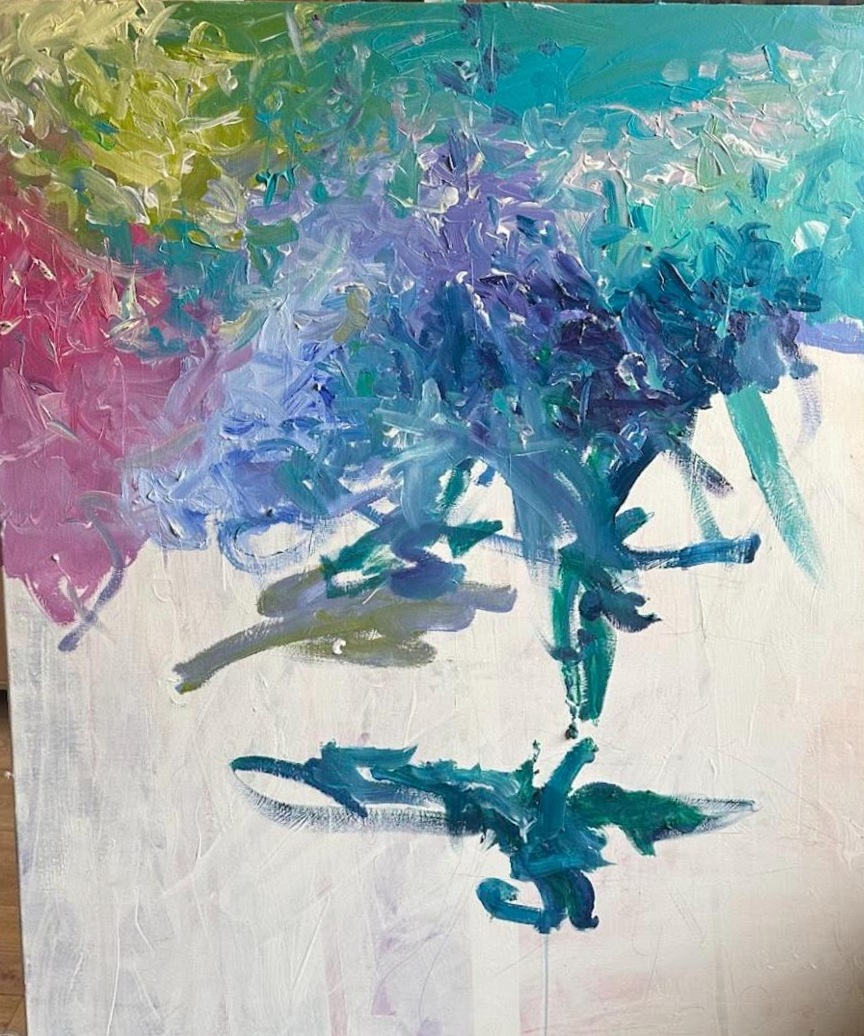
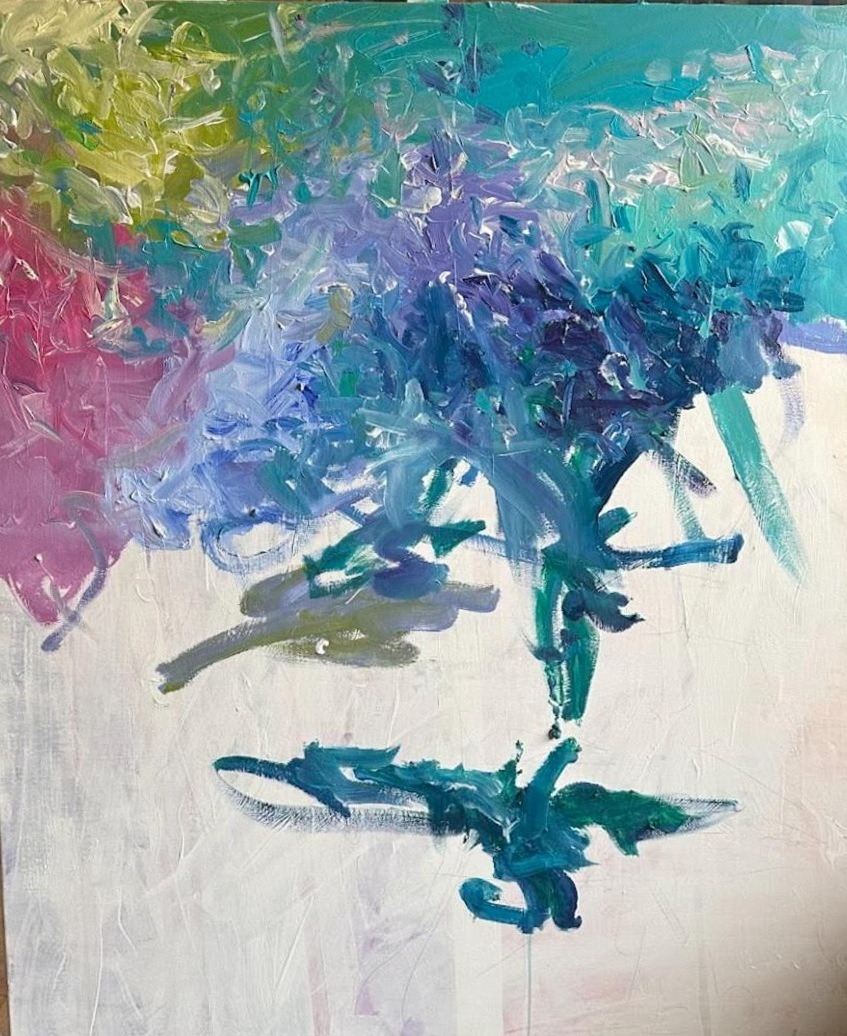
In-page viewer: works open large on the same page (home and archive), shareable via ?work=
Claude-Session: https://claude.ai/code/session_01UYUiVaRvo7TQ6PdKqUTpQC

diff --git a/src/styles/global.css b/src/styles/global.css
@@ -233,6 +233,24 @@ button { font: inherit; color: inherit; background: none; border: 0; padding: 0;
 .work-nav a:last-child { text-align: right; }
 .work-nav .work-nav-all { text-decoration: underline; text-underline-offset: 0.2em; }
 
+/* in-page viewer */
+.viewer { border: 0; padding: 0; margin: 0; width: 100vw; height: 100dvh; max-width: none; max-height: none; background: var(--wall); color: var(--ink); }
+.viewer::backdrop { background: rgb(236 235 231 / 0.96); }
+.viewer[open] { display: grid; grid-template-rows: auto 1fr; animation: fade 0.3s ease both; }
+.viewer-open { overflow: hidden; }
+.viewer-bar { display: flex; justify-content: space-between; align-items: center; padding: 0.8rem var(--gutter); }
+.viewer-count { font-size: 0.84rem; color: var(--soft); font-variant-numeric: tabular-nums; }
+.viewer-body { position: relative; display: grid; grid-template-columns: auto minmax(0, 1fr) auto; align-items: center; gap: 1rem; padding: 0 var(--gutter) 1.5rem; height: calc(100dvh - 4.5rem); min-height: 0; }
+.viewer-figure { display: grid; grid-template-columns: minmax(0, 1fr) minmax(14rem, 19rem); gap: clamp(1.5rem, 4vw, 4rem); align-items: end; height: 100%; min-height: 0; }
+.viewer-img { display: flex; align-items: center; justify-content: center; height: 100%; min-height: 0; min-width: 0; }
+.viewer-img img { max-width: 100%; max-height: 100%; width: auto; height: auto; object-fit: contain; opacity: 0; transition: opacity 0.35s ease; box-shadow: 0 1px 2px rgb(0 0 0 / 0.08), 0 20px 44px -26px rgb(0 0 0 / 0.45); touch-action: pan-y; }
+.viewer-img img.is-loaded { opacity: 1; }
+.viewer-cap { display: grid; gap: 0.4rem; padding-bottom: 0.5rem; }
+.viewer-title { font-family: var(--serif); font-weight: 300; font-size: clamp(1.6rem, 2.4vw, 2.3rem); line-height: 1.05; letter-spacing: -0.02em; }
+.viewer-meta { font-size: 0.88rem; color: var(--soft); }
+.viewer-status { font-size: 0.88rem; color: #2e7d4f; }
+.viewer-link { justify-self: start; margin-top: 0.8rem; font-size: 0.9rem; text-decoration: underline; text-underline-offset: 0.25em; }
+
 /* viewer */
 .lightbox { border: 0; padding: 0; margin: 0; width: 100vw; height: 100dvh; max-width: none; max-height: none; background: var(--wall); color: var(--ink); }
 .lightbox::backdrop { background: var(--wall); }
@@ -307,6 +325,16 @@ button { font: inherit; color: inherit; background: none; border: 0; padding: 0;
   .work-nav .work-nav-all { display: none; }
   .available a { grid-template-columns: 1fr auto; gap: 0.4rem 1rem; }
   .available-meta { grid-column: 1 / -1; grid-row: 2; }
+}
+@media (max-width: 48rem) {
+  .viewer-body { grid-template-columns: 1fr; padding-bottom: 1rem; }
+  .viewer-figure { grid-template-columns: 1fr; grid-template-rows: minmax(0, 1fr) auto; gap: 1rem; }
+  .viewer-body { height: calc(100dvh - 4.5rem); }
+  .viewer-figure { height: 100%; }
+  .viewer-prev, .viewer-next { position: absolute; bottom: 1rem; top: auto; translate: none; z-index: 2; }
+  .viewer-prev { right: calc(var(--gutter) + 3.5rem); left: auto; }
+  .viewer-next { right: var(--gutter); }
+  .viewer-cap { padding-right: 7.5rem; }
 }
 @media (max-width: 22rem) {
   .site-nav ul { gap: 0.7rem; }

diff --git a/src/lib/viewer.ts b/src/lib/viewer.ts
@@ -1,0 +1,27 @@
+import { getImage } from 'astro:assets';
+import type { Work } from './works';
+import { profile } from './curation';
+import { CATEGORIES, AVAILABILITY_LABEL } from '../data/site';
+import { formatPrice } from './url';
+
+/** Data attributes that let a link open the work in the in-page viewer (see Viewer.astro). */
+export async function viewerAttrs(w: Work): Promise<Record<string, string>> {
+  const d = w.data;
+  const full = await getImage({ src: d.cover, width: 2200, format: 'webp' });
+  const p = await profile(w);
+  const cat = CATEGORIES.find((c) => c.id === d.category)!;
+  const status = d.availability === 'available'
+    ? [AVAILABILITY_LABEL.available, d.price && `${formatPrice(d.price.amount, d.price.currency)}${d.price.note ? ` ${d.price.note}` : ''}`, d.edition?.available.length ? `copies ${d.edition.available.join(', ')}` : ''].filter(Boolean).join(', ')
+    : d.availability ? AVAILABILITY_LABEL[d.availability] : '';
+  return {
+    'data-viewer-item': '',
+    'data-id': w.id,
+    'data-full': full.src,
+    'data-alt': d.coverAlt,
+    'data-title': d.title,
+    'data-meta': [cat.singular, d.year, d.technique, d.dimensions, d.edition && `edition of ${d.edition.size}`].filter(Boolean).join(', '),
+    'data-status': status,
+    'data-tone': p.tone,
+    'data-r': (d.cover.width / d.cover.height).toFixed(3),
+  };
+}
